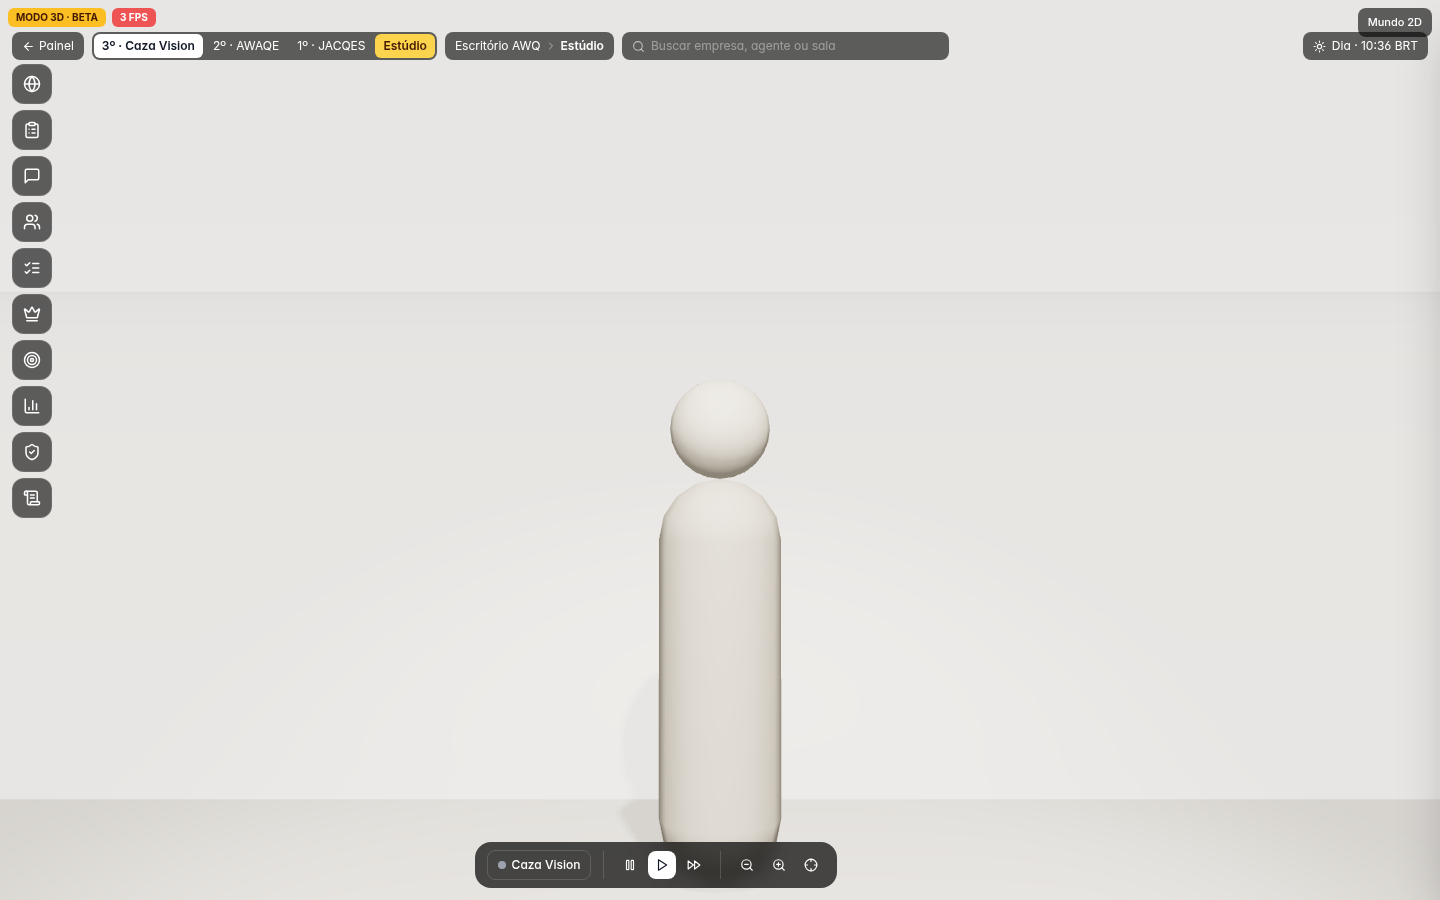
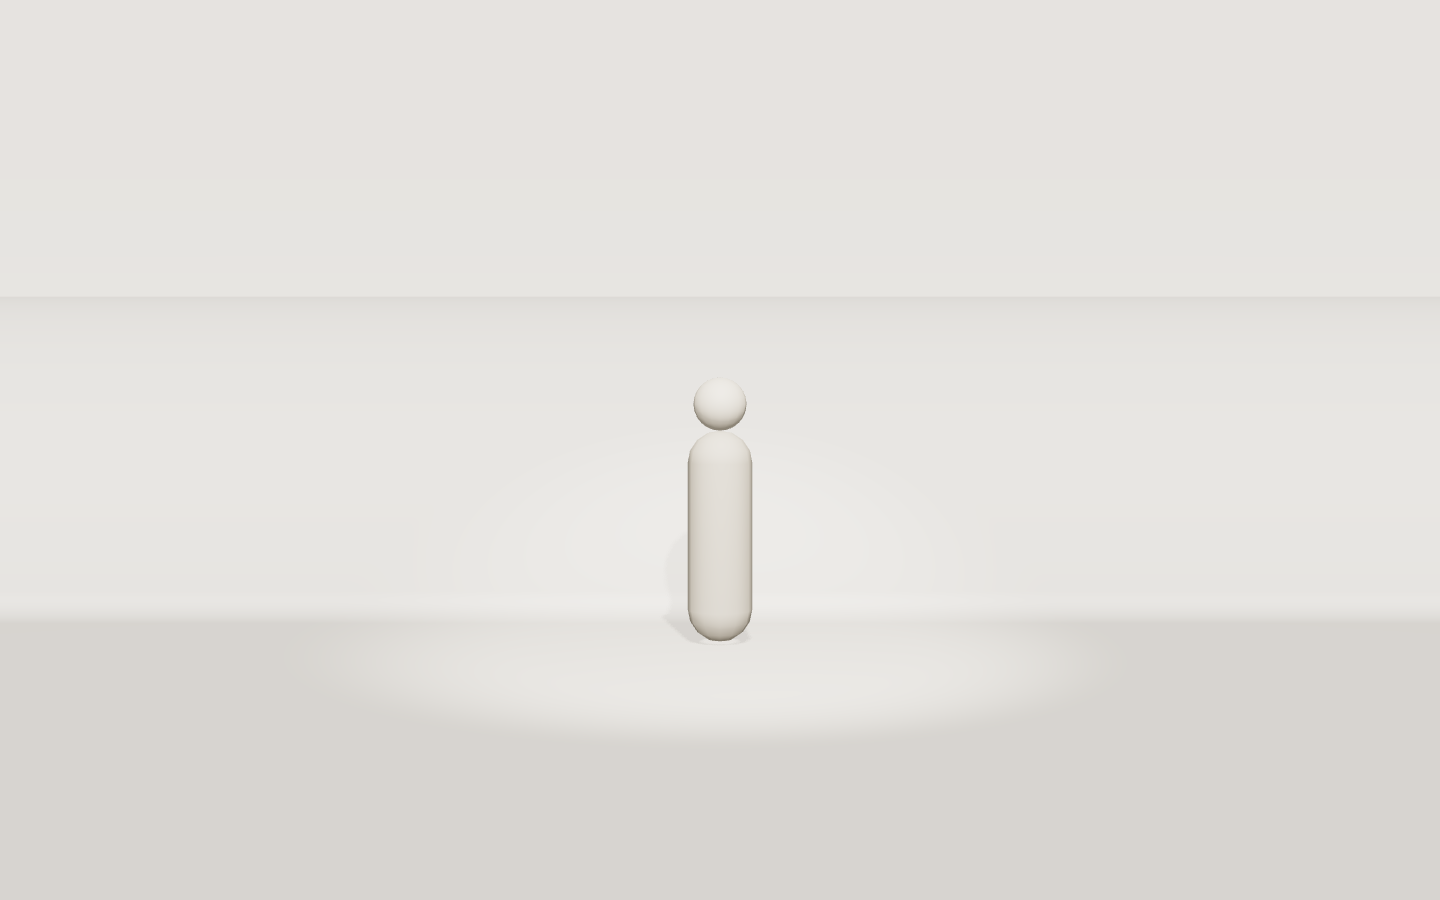
feat(office): óptica do Estúdio, lente e sensor em FOV (#1205)
* feat(office): óptica do Estúdio, lente e sensor em FOV

Super35, full frame e celular viram campo de visão em graus a partir da distância focal. Testes travam os ângulos conhecidos.

* fix(office): o ciclorama usa a cor do piso e a parede sobe

A curva estava em #f7f4ee e o piso em #f4f1ea, e o topo da parede de 8 m
cortava uma linha contra o fundo. A malha e o piso agora são COR_CICLO,
e a parede vai a 12 m. A frente foi refeita em [0, 1.7, 9], com os pés
no quadro e sem o HUD por cima da base.

* ci: dispara o harness no head rebasado em main

O force-push que apontou o PR para a main não abriu o workflow.

* fix(office): o piso do ciclorama é a mesma malha e o relógio fica livre

O arco termina no chão e o miolo entra na mesma geometria, então a emenda deixa de ser outro material com outra rugosidade. O botão do modo 3D sai de cima do relógio no 2D.

* fix(office): o ciclorama não marca a emenda do piso

O lábio do arco fica horizontal e as normais apontam para dentro, então a curva e o chão são a mesma superfície. A frente e o andar 2D foram recapturados.

---------

Changed region(s): [[0.3125, 0.4356, 0.6875, 0.9956], [0.0, 0.0, 0.6562, 0.5911], [0.9062, 0.0, 1.0, 0.0933]]

diff --git a/components/office/studio/StudioSet.tsx b/components/office/studio/StudioSet.tsx
@@ -11,7 +11,7 @@ import * as THREE from "three";
  * grade de luz no teto. Geometria procedural — nenhum asset pago.
  */
 
-const ALTURA = 8;
+const ALTURA = 12;
 const RAIO = 2.6;
 const COR_CICLO = "#f4f1ea";
 
@@ -63,9 +63,8 @@ function trajetoDaParede(): { x: number; z: number; nx: number; nz: number }[] {
 }
 
 /**
- * Perfil do cove: parede reta e quarto de círculo, parando no raio.
- * Sem a faixa de 16 m: ela se repetia em cada parede e z-fightava no meio.
- * [altura, recuo para dentro]. O último ponto fica 1 cm acima do piso.
+ * Perfil do cove: parede reta e quarto de círculo que termina no plano do chão.
+ * [altura, recuo para dentro]. O último vértice é o mesmo da malha do piso.
  */
 function perfilDoCove(): [number, number][] {
   const parede = ALTURA - RAIO;
@@ -77,44 +76,55 @@ function perfilDoCove(): [number, number][] {
   }
   for (let i = 1; i <= passosArco; i++) {
     const ang = (i / passosArco) * (Math.PI / 2);
-    const y = RAIO * Math.cos(ang);
-    const recuo = Math.min(RAIO, RAIO * Math.sin(ang));
-    perfil.push([i === passosArco ? 0.01 : y, recuo]);
+    perfil.push([RAIO * Math.cos(ang), RAIO * Math.sin(ang)]);
   }
+  // Lábio horizontal: a borda do piso só encosta em faces planas, sem degrau de normal.
+  perfil.push([0, RAIO + 0.45]);
   return perfil;
 }
 
+function normalY(pos: number[], ia: number, ib: number, ic: number): number {
+  const ax = pos[ia * 3], az = pos[ia * 3 + 2];
+  const bx = pos[ib * 3], bz = pos[ib * 3 + 2];
+  const cx = pos[ic * 3], cz = pos[ic * 3 + 2];
+  return (bz - az) * (cx - ax) - (bx - ax) * (cz - az);
+}
+
+/** O arco continua até y=0 e o miolo é a mesma malha, com o mesmo material. */
 function geometriaCiclorama(): THREE.BufferGeometry {
   const base = trajetoDaParede();
   const perfil = perfilDoCove();
   const pos: number[] = [];
-  const cor: number[] = [];
   const idx: number[] = [];
-  const linho = [0xf7 / 255, 0xf4 / 255, 0xee / 255];
-  const curva = [0xe4 / 255, 0xdd / 255, 0xd2 / 255];
   for (let j = 0; j < base.length; j++) {
     const p = base[j];
     for (const [y, recuo] of perfil) {
       pos.push(p.x + p.nx * recuo, y, p.z + p.nz * recuo);
-      const noCove = y > 0.05 && y < RAIO + 0.35 && recuo < RAIO + 0.6;
-      const k = noCove ? Math.sin(Math.min(1, y / RAIO) * Math.PI) * 0.9 : 0;
-      cor.push(
-        linho[0] + (curva[0] - linho[0]) * k,
-        linho[1] + (curva[1] - linho[1]) * k,
-        linho[2] + (curva[2] - linho[2]) * k,
-      );
     }
   }
   const n = perfil.length;
   for (let j = 0; j < base.length - 1; j++) {
     for (let i = 0; i < n - 1; i++) {
       const a = j * n + i;
-      idx.push(a, a + n, a + 1, a + 1, a + n, a + n + 1);
+      idx.push(a, a + 1, a + n, a + n, a + 1, a + n + 1);
+    }
+  }
+  const borda = Array.from({ length: base.length }, (_, j) => j * n + (n - 1));
+  const contorno = borda.map((vi) => new THREE.Vector2(pos[vi * 3], pos[vi * 3 + 2]));
+  const faces = THREE.ShapeUtils.triangulateShape(contorno, []);
+  if (faces.length > 0) {
+    const [fa, fb, fc] = faces[0];
+    const virar = normalY(pos, borda[fa], borda[fb], borda[fc]) < 0;
+    for (const [a, b, c] of faces) {
+      const ia = borda[a];
+      const ib = borda[b];
+      const ic = borda[c];
+      if (virar) idx.push(ia, ic, ib);
+      else idx.push(ia, ib, ic);
     }
   }
   const geo = new THREE.BufferGeometry();
   geo.setAttribute("position", new THREE.Float32BufferAttribute(pos, 3));
-  geo.setAttribute("color", new THREE.Float32BufferAttribute(cor, 3));
   geo.setIndex(idx);
   geo.computeVertexNormals();
   return geo;
@@ -125,7 +135,7 @@ function Ciclorama() {
   useEffect(() => () => geo.dispose(), [geo]);
   return (
     <mesh geometry={geo} receiveShadow>
-      <meshStandardMaterial color="#ffffff" vertexColors roughness={0.9} metalness={0} side={THREE.DoubleSide} />
+      <meshStandardMaterial color={COR_CICLO} roughness={0.9} metalness={0} side={THREE.DoubleSide} />
     </mesh>
   );
 }
@@ -196,10 +206,6 @@ export function StudioSet() {
   return (
     <group>
       <Ciclorama />
-      <mesh rotation-x={-Math.PI / 2} position={[0, 0, 4.9]} receiveShadow>
-        <planeGeometry args={[22.2, 18.4]} />
-        <meshStandardMaterial color={COR_CICLO} roughness={0.95} metalness={0} />
-      </mesh>
       <GradeDeLuz />
       <Manequim />
     </group>

diff --git a/lib/studio-optics.test.ts b/lib/studio-optics.test.ts
@@ -1,0 +1,46 @@
+import assert from "node:assert/strict";
+import { test } from "node:test";
+import { SENSORES, fovDaLente, fovGraus, fovVertical } from "./studio-optics";
+
+const perto = (a: number, b: number) => assert.ok(Math.abs(a - b) < 0.02, `${a} ≠ ${b}`);
+
+test("50 mm em full frame abre ~27° na vertical e ~40° na horizontal", () => {
+  const fov = fovDaLente(50, "ff");
+  perto(fov.vertical, 26.991);
+  perto(fov.horizontal, 39.598);
+  perto(fovVertical(50, "ff"), 26.991);
+});
+
+test("Super35 é mais fechado que full frame na mesma lente", () => {
+  const s35 = fovDaLente(35, "super35");
+  const ff = fovDaLente(35, "ff");
+  perto(s35.vertical, 29.853);
+  perto(s35.horizontal, 39.148);
+  assert.ok(s35.vertical < ff.vertical);
+  assert.ok(s35.horizontal < ff.horizontal);
+});
+
+test("no celular a mesma distância focal física fecha o ângulo", () => {
+  const phone = fovDaLente(50, "phone");
+  const ff = fovDaLente(50, "ff");
+  perto(phone.vertical, 6.525);
+  perto(phone.horizontal, 8.692);
+  assert.ok(phone.vertical < ff.vertical);
+  assert.equal(SENSORES.phone.nome, "Celular");
+  assert.equal(SENSORES.super35.larguraMm, 24.89);
+});
+
+test("lente mais curta abre o campo", () => {
+  const curta = fovGraus(24, 24);
+  const longa = fovGraus(24, 85);
+  perto(curta, 53.13);
+  perto(longa, 16.071);
+  assert.ok(curta > longa);
+});
+
+test("lente ou sensor inválido não devolve um ângulo", () => {
+  assert.throws(() => fovGraus(24, 0));
+  assert.throws(() => fovGraus(24, -35));
+  assert.throws(() => fovGraus(0, 50));
+  assert.throws(() => fovDaLente(Number.NaN, "ff"));
+});

diff --git a/lib/studio-optics.ts b/lib/studio-optics.ts
@@ -1,0 +1,43 @@
+/**
+ * Óptica do Estúdio: distância focal (mm) + tamanho do sensor → campo de visão.
+ * Fórmula física, a mesma da câmera de cinema virtual: o ângulo cobre o sensor,
+ * não a "equivalência em 35 mm".
+ *
+ * Super35: gate comum de cinema digital, 24,89 × 18,66 mm.
+ * Full frame: 36 × 24 mm.
+ * Celular: sensor compacto 7,6 × 5,7 mm (a lente física curta é que abre o ângulo).
+ */
+
+export const SENSORES = {
+  super35: { id: "super35", nome: "Super35", larguraMm: 24.89, alturaMm: 18.66 },
+  ff: { id: "ff", nome: "Full Frame", larguraMm: 36, alturaMm: 24 },
+  phone: { id: "phone", nome: "Celular", larguraMm: 7.6, alturaMm: 5.7 },
+} as const;
+
+export type SensorId = keyof typeof SENSORES;
+
+export interface CampoDeVisao {
+  horizontal: number;
+  vertical: number;
+}
+
+/** Ângulo, em graus, que uma lente cobre num eixo do sensor. */
+export function fovGraus(eixoMm: number, lenteMm: number): number {
+  if (!(lenteMm > 0) || !(eixoMm > 0) || !Number.isFinite(lenteMm) || !Number.isFinite(eixoMm)) {
+    throw new Error("Lente e sensor precisam ser números positivos.");
+  }
+  return (2 * Math.atan(eixoMm / (2 * lenteMm)) * 180) / Math.PI;
+}
+
+export function fovDaLente(lenteMm: number, sensor: SensorId): CampoDeVisao {
+  const s = SENSORES[sensor];
+  return {
+    horizontal: fovGraus(s.larguraMm, lenteMm),
+    vertical: fovGraus(s.alturaMm, lenteMm),
+  };
+}
+
+/** FOV vertical em graus, o que o PerspectiveCamera do Three.js consome. */
+export function fovVertical(lenteMm: number, sensor: SensorId): number {
+  return fovDaLente(lenteMm, sensor).vertical;
+}

diff --git a/components/office/OfficeSimulator.tsx b/components/office/OfficeSimulator.tsx
@@ -1168,7 +1168,7 @@ export default function OfficeSimulator() {
       {/* Alternância do renderizador: o mundo 2D (padrão) continua disponível durante a migração */}
       <button
         onClick={alternarModo3D}
-        className="absolute top-2 right-2 z-[70] rounded-lg bg-black/60 hover:bg-black/80 text-white text-[11px] font-medium px-2.5 py-1.5"
+        className={`absolute z-[70] rounded-lg bg-black/60 hover:bg-black/80 text-white text-[11px] font-medium px-2.5 py-1.5 ${painelAberto ? "top-14 left-16" : "top-14 right-3"}`}
         title={modo3D ? "Voltar para o mundo 2D" : "Experimentar o mundo em 3D (beta)"}
       >
         {modo3D ? "Mundo 2D" : "Modo 3D (beta)"}
